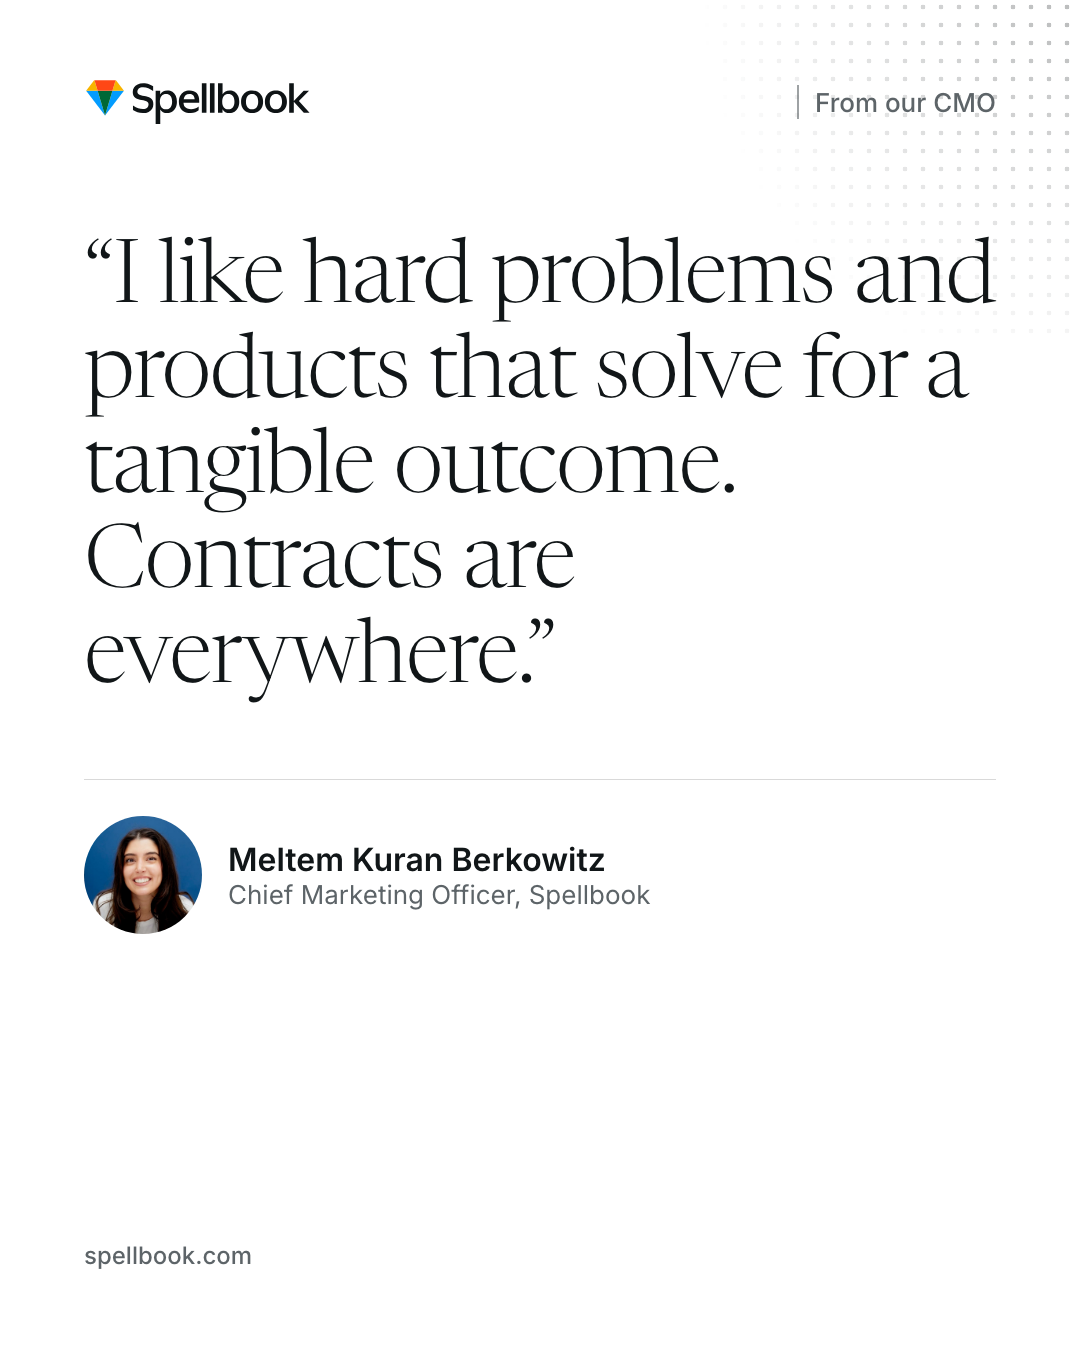
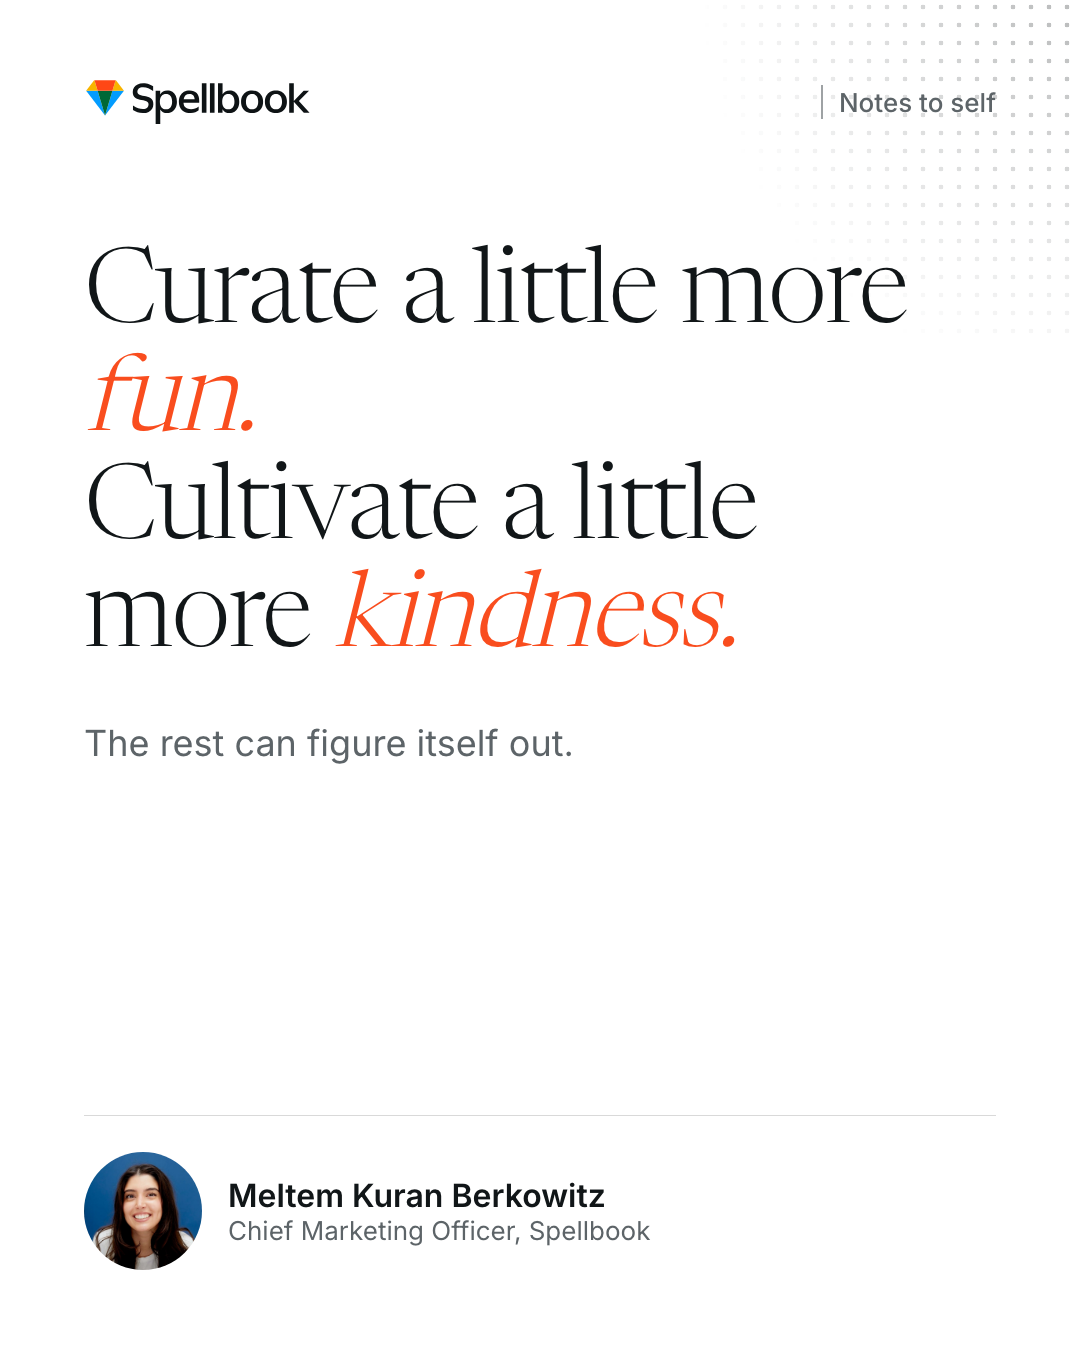
Spellbook: replace Meltem's two sample posts (curate fun · cultivate kindness; hiring for agency) with new cards

diff --git a/spellbook/index.html b/spellbook/index.html
@@ -3018,13 +3018,13 @@ document.addEventListener('DOMContentLoaded', () => {
        "type": "linkedin",
        "author": "meltem",
        "slot": "Tue · 8:00 AM",
-       "tone": "Point of view",
+       "tone": "Personal",
        "time": "3d",
-       "body": "A few months into the work (and a week into the title), one line keeps coming back to me:\n\nContracts are everywhere.\n\nThe lease on our office. The offer letter for our next hire. The terms on the tool I opened this morning. Every one of them is a promise between two parties, and most are still drafted by hand.\n\nThat's what I get to market now. Not a vague \"legal AI\" promise. The rails agreements run on.\n\nWhat's a contract in your day you've never thought about?",
+       "body": "I’ve been thinking about the kind of person I want to be at work, but also outside of it.\n\nNot necessarily the most impressive person in the room. Not the person with the longest list of achievements, the most opinions, or definitely not the most carefully constructed personal brand.\n\nBut someone who makes things a little more enjoyable and a little more human.\n\nThat is probably what I mean when I say: curating fun ✨ cultivating kindness 🫶🏽\n\n“Curating fun” does not mean turning everything into a party, or pretending work is supposed to be effortless. Work can be difficult, repetitive, stressful, and occasionally downright frustrating. But I think there is something to be said for people who know how to create moments of lightness in the middle of all of that. The person who makes a meeting less awkward. Who gets everyone excited about an idea. Who remembers to celebrate the small win. Who sends the ridiculous meme after a long day. Who turns a dinner into a story people will remember five years later.\n\nFun, in that sense, is a way of making life feel lived.\n\nAnd then there is \"kindness\".\n\nI have come to think of kindness less as being “nice” and more as being selective about how our presence affects other people. Giving someone credit when we could easily take it. Making an introduction without expecting something in return. Being patient with the person who is still figuring it out. Checking in on someone after the conversation has ended. Saying the thing that makes someone feel seen rather than the thing that makes you look clever.\n\nNone of this means being endlessly agreeable. You can be ambitious and kind. You can have high standards and be kind. You can give difficult feedback and still leave someone with their dignity intact.\n\nIn fact, I think some of the best people I have worked with have had that combination: they took the work seriously without taking themselves too seriously, and they cared about people without making a performance out of caring.\n\nPerhaps that is the kind of life I am building too.\n\nA life with good work, interesting people, long dinners, ridiculous conversations, generous introductions, spontaneous plans, hard problems, genuine friendships, and enough room for everyone to be a little imperfect.\n\nBecause eventually, I suspect, people remember less about how efficiently you worked and more about how it felt to work with you.\n\nSo, for now, I’m keeping it simple:\nCurate a little more fun.\nCultivate a little more kindness.\nThe rest can figure itself out.😉",
        "graphic": {
         "style": "png",
-        "src": "posts/m1.jpg",
-        "alt": "Quote card: Contracts are everywhere, Meltem Kuran Berkowitz, CMO, Spellbook"
+        "src": "posts/m1.jpg?v=2",
+        "alt": "Curate a little more fun. Cultivate a little more kindness. Meltem Kuran Berkowitz, CMO, Spellbook"
        },
        "download": "posts/m1.png",
        "reactions": 1240,
@@ -3035,13 +3035,13 @@ document.addEventListener('DOMContentLoaded', () => {
        "type": "linkedin",
        "author": "meltem",
        "slot": "Thu · 9:00 AM",
-       "tone": "Lessons",
+       "tone": "Hiring philosophy",
        "time": "1w",
-       "body": "I joined Deel when it was doing under $1M in revenue, and stayed through $1B+ in ARR.\n\n5 lessons I'm bringing to Spellbook:\n\n1. Speed is a strategy. Ship the test this week, not the plan next quarter.\n2. Your first marketers should be builders, not managers.\n3. Find the one channel that compounds, and go deep before you go wide.\n4. Brand is what makes performance cheaper.\n5. Respect attention. Every post should be worth someone's 30 seconds.\n\nSwipe for the full version 👉",
+       "body": "I genuinely love developing people.\n\nNo, genuinely. It's the part of my job that gives me the most energy: watching someone go from unsure to unstoppable, knowing you had a hand in it.\n\nBut here's the uncomfortable truth nobody puts on the recruiting page: you can't develop someone into having agency. You can develop skills, craft, and confidence but you cannot develop hunger.\n\nSo when I hire, I've stopped optimising for the polished CV. Some of our best hires were completely unqualified on paper. Wrong pedigree, different background, gaps that would get auto-rejected by most the ATS systems out there.\n\nAnd every one of them had the same handful of qualities: entrepreneurial, high agency, smart, mission-aligned, and they got work done.\n\nIf you're building a team, especially in the early, chaotic, nothing-is-defined-yet stage, go find these people. Bet on them before anyone figures out how good they are. Don't over-index on resumes. A resume tells you where someone has been, not where they're capable of going.\n\nHire for ownership and intentional curiosity. Then invest everything in developing it.\n\nIf you're a leader, that should be the metric that keeps you up at night: not how many boxes were ticked at hire, but how many people are better five years on because you bet on them.\n\nThe people who go on to do the biggest things rarely had tidy paths getting there. They pivoted. They took the unglamorous role. They said yes to the messy project nobody else wanted. That's the résumé that actually matters. You just have to know how to read it.\n\nSo my ask, if you're hiring right now: sit with the CVs that don't fit the template. Talk to the person with a nonlinear path. Ask what they built without being asked. Your next best hire might be sitting in that pile.",
        "graphic": {
         "style": "png",
-        "src": "posts/m2.jpg",
-        "alt": "From $1M to $1B+: 5 growth lessons I'm bringing to Spellbook"
+        "src": "posts/m2.jpg?v=2",
+        "alt": "You can't develop hunger. A resume tells you where someone has been, not where they're capable of going."
        },
        "download": "posts/m2.png",
        "reactions": 2105,

diff --git a/spellbook/art/art.html b/spellbook/art/art.html
@@ -101,19 +101,22 @@
   #c5 .map i::after { content: attr(data-n); position: absolute; left: 30px; top: -6px; font: 500 22px var(--sans); color: var(--muted); white-space: nowrap; font-style: normal; }
   #c5 .dots { left: 0; right: 0; top: 560px; height: 480px; }
 
-  /* ---------- m1 · Meltem quote ---------- */
-  #m1 blockquote { font: 300 88px/1.08 var(--serif); letter-spacing: -0.015em; margin-top: 110px; }
-  #m1 .who { margin-top: 70px; display: flex; align-items: center; gap: 26px; padding-top: 36px; border-top: 1px solid var(--rule); }
+  /* ---------- m1 · curate fun, cultivate kindness ---------- */
+  #m1 h1 { font-size: 104px; line-height: 1.04; margin-top: 120px; }
+  #m1 h1 em { font-style: italic; color: var(--accent); }
+  #m1 .rest { margin-top: 44px; font: 400 36px var(--sans); color: var(--muted); }
+  #m1 .who { margin-top: auto; display: flex; align-items: center; gap: 26px; padding-top: 36px; border-top: 1px solid var(--rule); }
   #m1 .who img { width: 118px; height: 118px; border-radius: 50%; object-fit: cover; }
   #m1 .who b { display: block; font: 600 32px var(--sans); }
   #m1 .who span { font: 400 26px var(--sans); color: var(--muted); }
   #m1 .dots { right: -30px; bottom: 120px; width: 520px; height: 360px; }
 
-  /* ---------- m2 · Deel lessons ---------- */
-  #m2 .big { margin-top: 130px; font: 300 200px/.95 var(--serif); letter-spacing: -0.03em; }
-  #m2 .big span { color: var(--accent); }
-  #m2 h2 { margin-top: 40px; font-size: 76px; line-height: 1.05; color: #e6e9ea; }
-  #m2 .btn { margin-top: 60px; }
+  /* ---------- m2 · hiring for agency ---------- */
+  #m2 h1 { font-size: 150px; line-height: .98; margin-top: 120px; letter-spacing: -0.025em; }
+  #m2 h1 em { font-style: italic; color: var(--accent); }
+  #m2 .sub { margin-top: 48px; font: 300 52px/1.18 var(--serif); color: #e6e9ea; max-width: 860px; }
+  #m2 .traits { margin-top: 64px; display: flex; flex-wrap: wrap; gap: 14px; }
+  #m2 .traits span { font: 500 26px var(--sans); color: #fff; border: 1px solid rgba(255,255,255,.35); padding: 14px 22px; }
   #m2 .dots { right: -30px; top: -20px; width: 560px; height: 480px; }
 
   /* ---------- IG carousel ---------- */
@@ -212,19 +215,19 @@
 
 <!-- m1 -->
 <section class="art" id="m1"><div class="dots fade-tr" style="top:-20px;right:-30px;width:520px;height:360px;bottom:auto"></div><div class="pad">
-  <div class="top"><img src="../logo-dark.svg" alt=""><span class="eyebrow">From our CMO</span></div>
-  <blockquote>“I like hard problems and products that solve for a tangible outcome. Contracts are everywhere.”</blockquote>
+  <div class="top"><img src="../logo-dark.svg" alt=""><span class="eyebrow">Notes to self</span></div>
+  <h1>Curate a little more <em>fun.</em><br>Cultivate a little more <em>kindness.</em></h1>
+  <p class="rest">The rest can figure itself out.</p>
   <div class="who"><img src="../meltem.jpg" alt=""><div><b>Meltem Kuran Berkowitz</b><span>Chief Marketing Officer, Spellbook</span></div></div>
-  <div class="foot"><span>spellbook.com</span></div>
 </div></section>
 
 <!-- m2 -->
 <section class="art dark" id="m2"><div class="dots fade-tr"></div><div class="pad">
-  <div class="top"><img src="../logo-white.svg" alt=""><span class="eyebrow">Growth notes</span></div>
-  <div class="big">$1M <span>→</span><br>$1B+ ARR</div>
-  <h2>5 growth lessons I'm bringing to Spellbook.</h2>
-  <span class="btn">Swipe for the lessons →</span>
-  <div class="foot"><span>Meltem Kuran Berkowitz, CMO</span></div>
+  <div class="top"><img src="../logo-white.svg" alt=""><span class="eyebrow">On hiring</span></div>
+  <h1>You can’t develop <em>hunger.</em></h1>
+  <p class="sub">A resume tells you where someone has been, not where they’re capable of going.</p>
+  <div class="traits"><span>Entrepreneurial</span><span>High agency</span><span>Smart</span><span>Mission-aligned</span><span>Gets work done</span></div>
+  <div class="foot"><span>Meltem Kuran Berkowitz, CMO</span><span>Hire for ownership →</span></div>
 </div></section>
 
 <!-- ig1 -->
